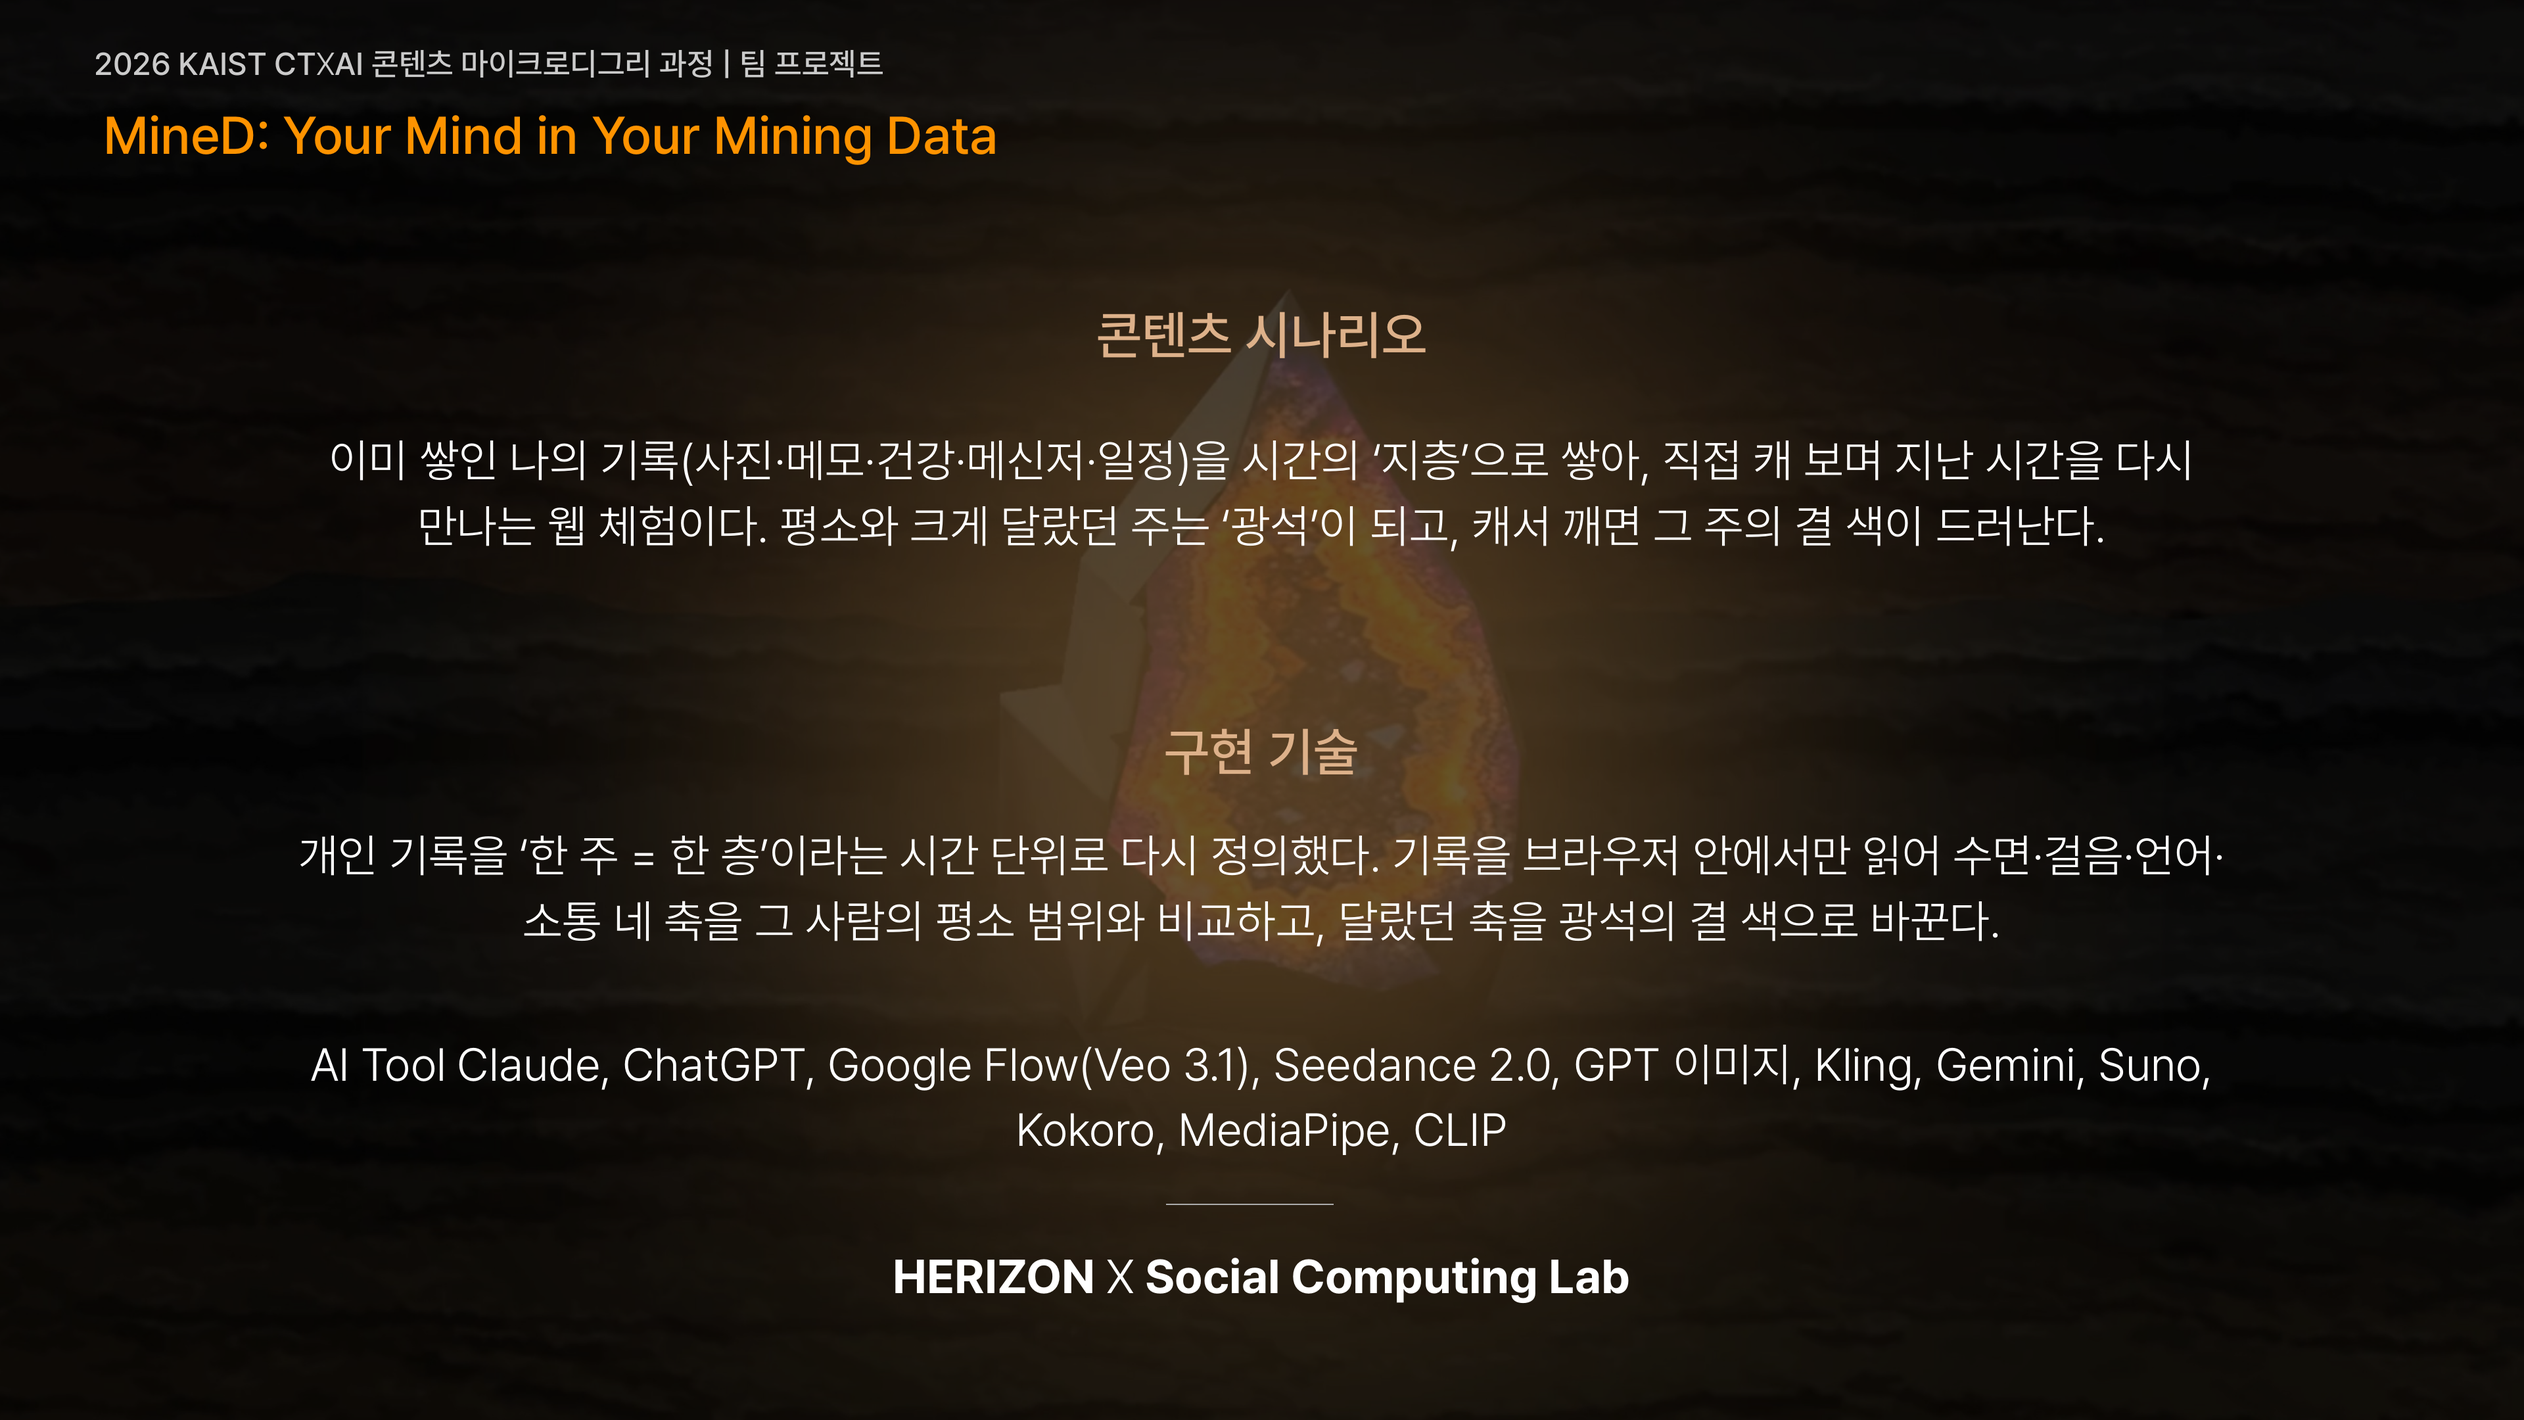
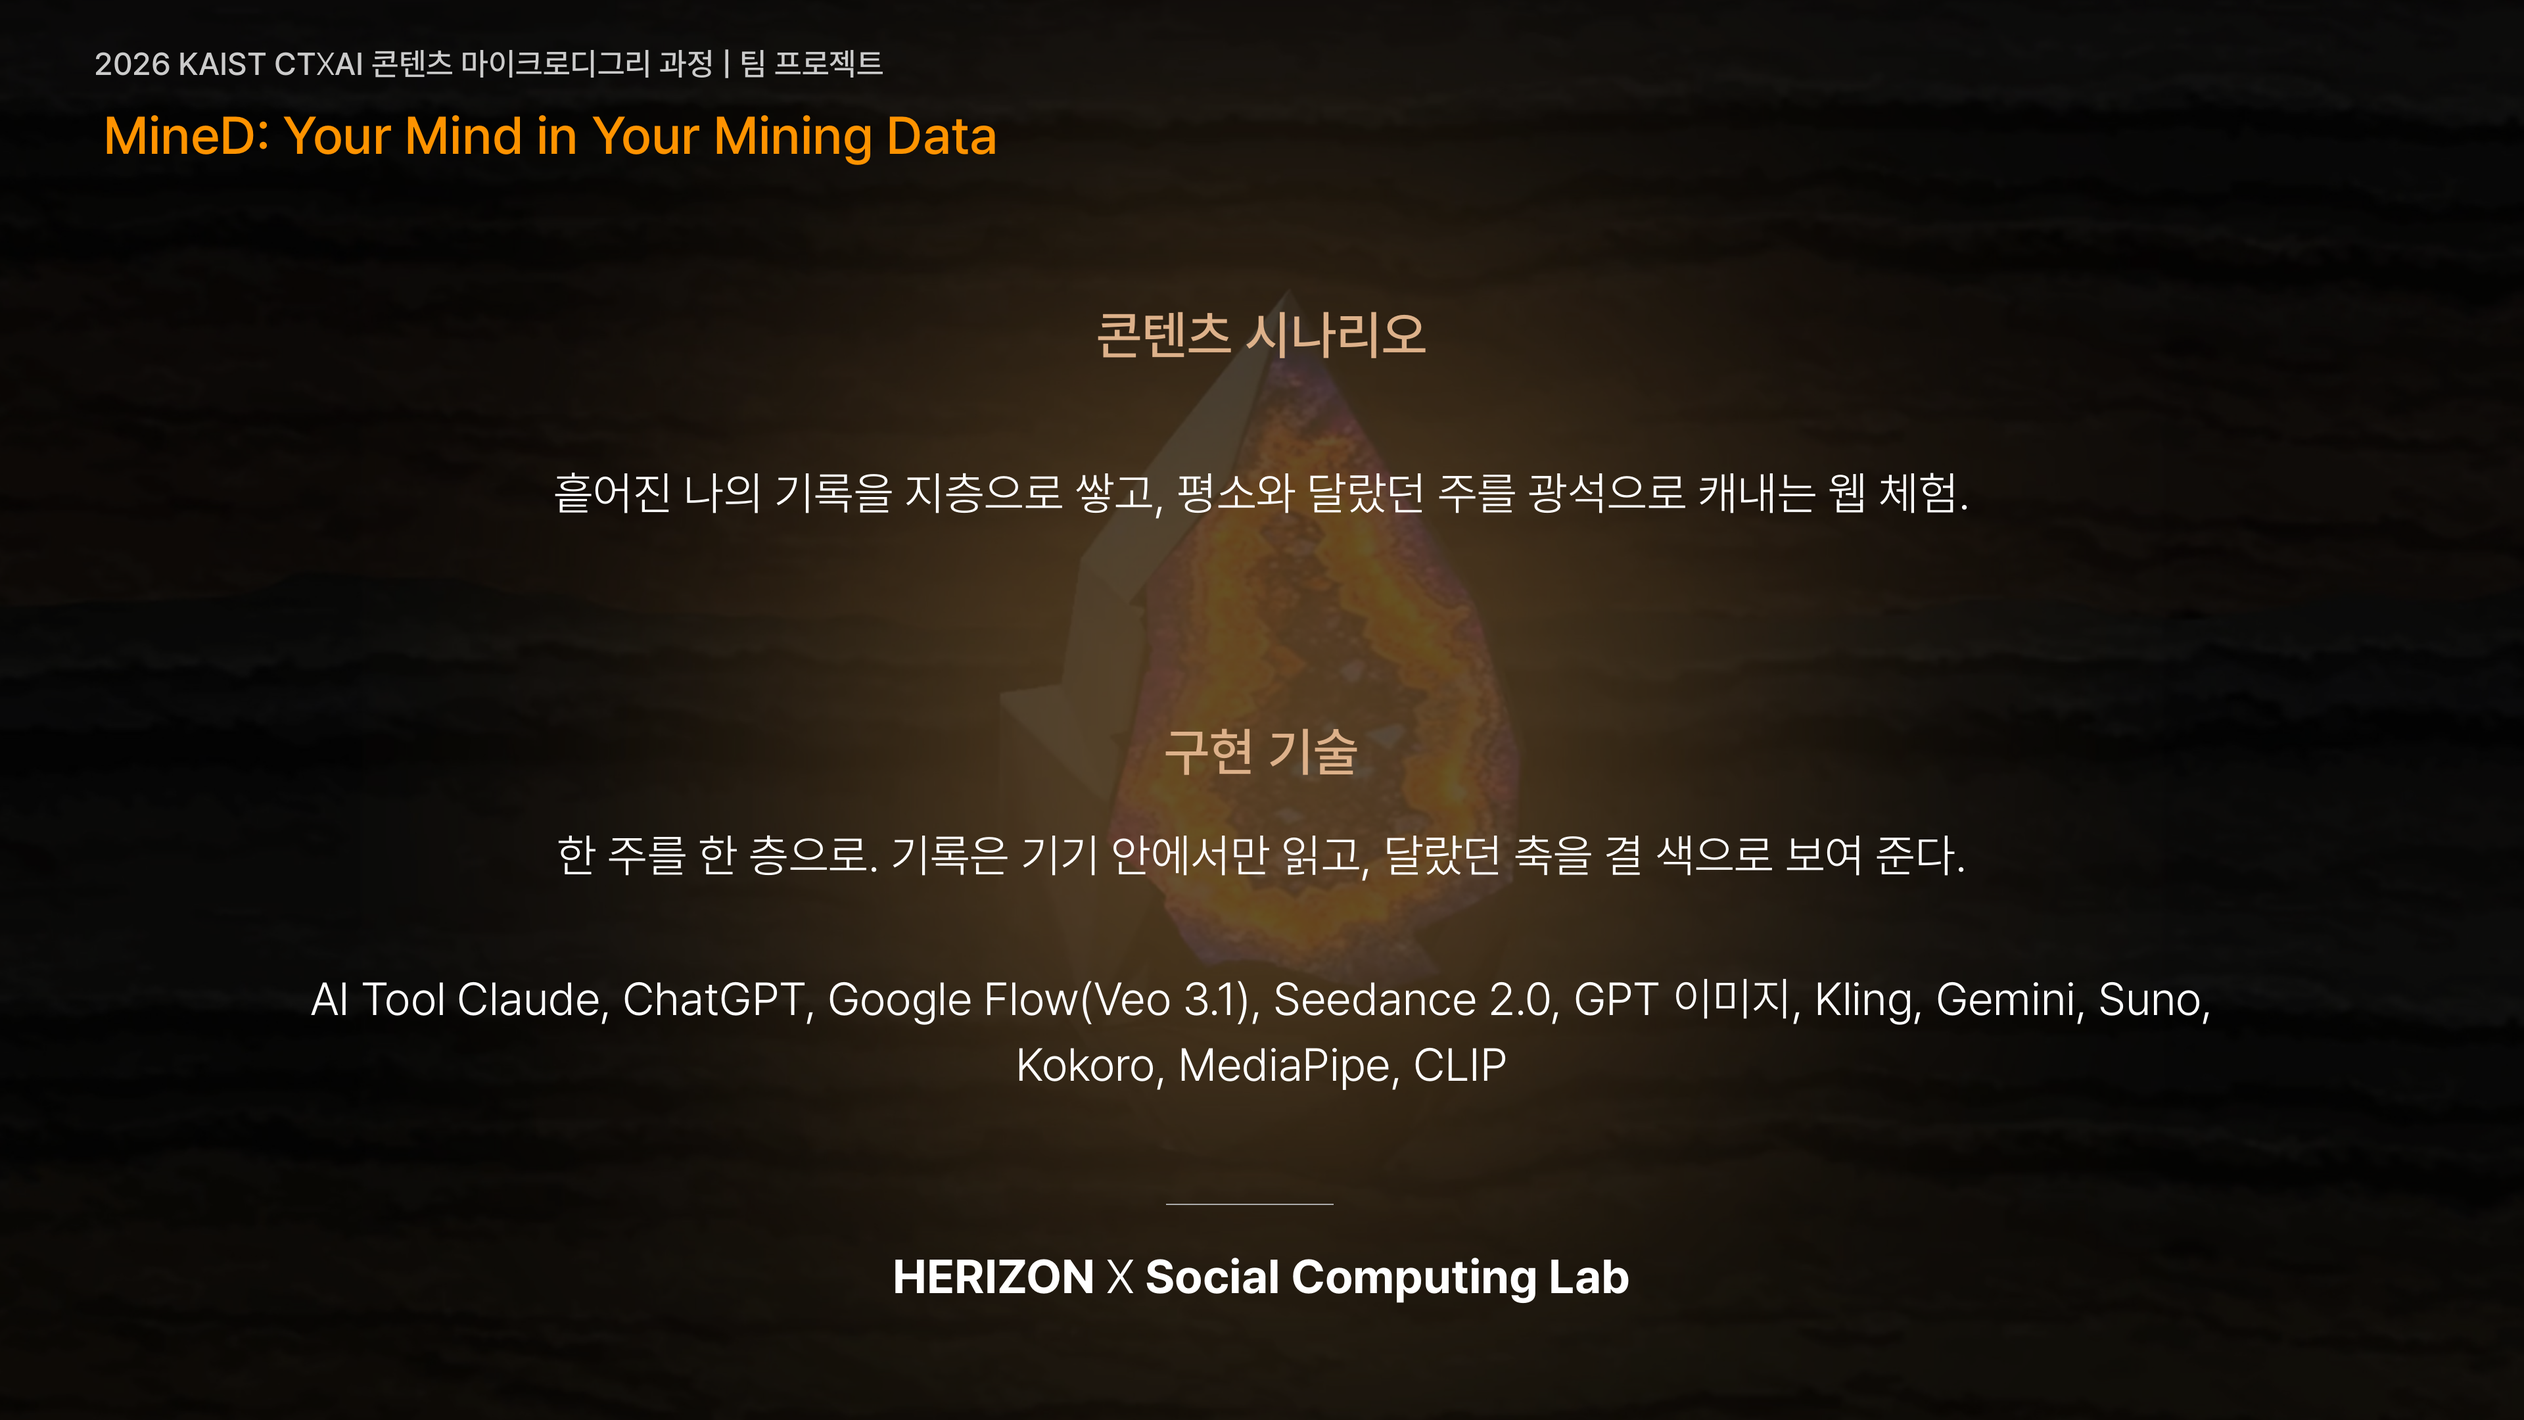
쇼케이스 v3: 9·10번 장 어두운 포맷, 연구실 칸 안내, 장별 노출 시간, 메인 하늘산 9.4초 컷, 메인 자막 5줄 최종안
Claude-Session: https://claude.ai/code/session_01H6XxrjKT2zziYGGeC5Esr8

Changed region(s): [[0.125, 0.5894, 0.875, 0.8065], [0.125, 0.3102, 0.875, 0.4032]]

diff --git a/showcase/v0.5_kit/layout/fill.py b/showcase/v0.5_kit/layout/fill.py
@@ -63,49 +63,41 @@ def pic(slide, path, x, y, w, h):
     pc.crop_left = pc.crop_right = cl[0]; pc.crop_top = pc.crop_bottom = cl[1]
     return pc
 
-SCEN_S = '이미 쌓인 나의 기록(사진·메모·건강·메신저·일정)을 시간의 ‘지층’으로 쌓아, 직접 캐 보며 지난 시간을 다시 만나는 웹 체험이다. 평소와 크게 달랐던 주는 ‘광석’이 되고, 캐서 깨면 그 주의 결 색이 드러난다.'
-SCEN_L = ('이미 쌓인 나의 기록(사진·메모·건강·메신저·일정)을 시간의 ‘지층’으로 쌓아, 직접 캐 보며 지난 시간을 다시 만나는 웹 체험이다. '
-          '최근 12주는 한 주가 한 층, 그 아래는 해마다 한 층으로 쌓인다. 평소와 크게 달랐던 주는 검은 ‘광석’으로 박히고, 캐서 깨면 그 주의 결 색이 드러난다. '
-          '관측소에서 만나는 캐릭터 ‘민디’와 대화하며 고른 말로 나만의 섬을 짓는다. 앱은 해석하거나 진단하지 않고 기록의 사실만 보여 주며, 원문은 기기 밖으로 나가지 않는다. '
-          '세계를 여는 영상과 민디의 목소리는 생성형 AI로 만들었다.')
-TECH_S = '개인 기록을 ‘한 주 = 한 층’이라는 시간 단위로 다시 정의했다. 기록을 브라우저 안에서만 읽어 수면·걸음·언어·소통 네 축을 그 사람의 평소 범위와 비교하고, 달랐던 축을 광석의 결 색으로 바꾼다.'
-TECH_L = ('MineD는 개인 기록을 ‘한 주 = 한 층’이라는 시간 단위로 다시 정의한 기록 시각화 웹 앱이다. 기록을 브라우저 안에서만 읽어 '
-          '수면·걸음·언어·소통 네 축을 그 사람의 평소 범위와 비교하고, 평소를 벗어난 주는 광석으로, 벗어난 축은 결 색으로 바꾼다. 원문은 기기 밖으로 나가지 않는다. '
-          'KAIST 문화기술대학원 Social Computing Lab은 자기 기록 안에서 근거를 찾아 답하는 개인 기록 챗봇을 개발해 민디와의 대화에 연계하도록 설계했다.')
+SCEN_S = '흩어진 나의 기록을 지층으로 쌓고, 평소와 달랐던 주를 광석으로 캐내는 웹 체험.'
+SCEN_L = '앞으로만 달려온 나에게 잠시 쉬어 갈 곳. 흩어진 기록이 한 주에 한 층씩 쌓이고, 평소와 달랐던 주는 광석이 된다. 민디와 나눈 말로 나만의 섬을 짓는다.'
+TECH_S = '한 주를 한 층으로. 기록은 기기 안에서만 읽고, 달랐던 축을 결 색으로 보여 준다.'
+TECH_L = '기록을 ‘한 주 = 한 층’으로 다시 정의했다. 수면·걸음·언어·소통 네 축을 나의 평소와 비교해, 달랐던 주는 광석으로, 달랐던 축은 결 색으로 바꾼다. 원문은 기기 밖으로 나가지 않는다.'
 AITOOL = 'Claude, ChatGPT, Google Flow(Veo 3.1), Seedance 2.0, GPT 이미지, Kling, Gemini, Suno, Kokoro, MediaPipe, CLIP'
 
 def tech_box(slide, body):
     sh = find(slide, '이 부분에는')
-    set_text(sh, [body, [(True, 'AI Tool '), (False, AITOOL)]])
+    set_text(sh, [body, [(True, 'AI Tool '), (False, AITOOL)]]); return sh
 
 # 메인 3 · 서브 7·8 · 심포지엄 17·18
 set_text(find(S(3), '이미 쌓인'), [SCEN_S]); tech_box(S(3), TECH_S)
 for n in (7, 17):
     set_text(find(S(n), '이미 쌓인'), [SCEN_L])
 for n in (8, 18):
-    tech_box(S(n), TECH_L)
-    sh = find(S(n), 'MineD는'); sh.top = sh.top - Inches(1.6)
-    h = find(S(n), '구현 기술'); h.top = h.top - Inches(1.4)
-    t = find(S(n), 'MineD: Your'); t.top = t.top - Inches(1.0)
+    sh = tech_box(S(n), TECH_L); sh.top = sh.top - Inches(0.6)
+    h = find(S(n), '구현 기술'); h.top = h.top - Inches(0.6)
+    t = find(S(n), 'MineD: Your'); t.top = t.top - Inches(0.4)
 
 # 9 콘텐츠 개발
 s9 = S(9); kill(s9, '여기엔 캐릭터 개발, 이미지 사운드 생성, 스토리 개발 등\n')
 DARK = '3A3530'
-set_text(find(s9, '캐릭터 개발 및 생성'), ['캐릭터 개발 및 생성'])
-set_text(find(s9, '3차원 장면'), ['세계·나의 섬 영상과 사운드'])
-set_text(find(s9, '시나리오 개발'), ['시나리오 개발'])
+set_text(find(s9, '캐릭터 개발 및 생성'), ['캐릭터'])
+set_text(find(s9, '3차원 장면'), ['세계와 소리'])
+set_text(find(s9, '시나리오 개발'), ['시나리오'])
 bodies = [sh for sh in s9.shapes if sh.has_text_frame and sh.text_frame.text.startswith('여기엔 캐릭터')]
 bodies.sort(key=lambda sh: (sh.left, sh.top))
 b1, b2, b3a, b3b = bodies  # x순: 3.3 / 19.5 / 36.0(19.3) / 43.5
 if b3a.left > b3b.left: b3a, b3b = b3b, b3a
-set_text(b1, ['기록을 지키는 관측소지기 ‘민디’. 이미지 생성으로 기준 시트를 만들어 모든 장면에서 같은 모습을 지켰다.',
-              '말투 4종 대사집과, TTS에 음높이 변환을 더한 외계어 목소리를 입혔다.'], DARK)
-set_text(b2, ['안개 관측소와 나의 섬 4곳(바다·하늘산·정글·음악방)을 Google Flow(Veo 3.1)와 Seedance 2.0으로 생성했다. 날씨·계절·시대를 바꾼 변주도 함께 만들었다.',
-              '효과음 21종과 바탕 소리는 앱 사운드 엔진으로 직접 만들었다.'], DARK)
+set_text(b1, ['관측소지기 민디. 기준 시트로 모든 장면의 모습을 맞췄다.'], DARK)
+set_text(b2, ['관측소와 섬 4곳은 AI 영상으로 짓고, 효과음 21종은 직접 만들었다.'], DARK)
 # b3a: 36.0,19.3 넓은 글 / b3b: 43.5,9.6 좁은 글
 nar, wide = (b3b, b3a) if b3b.width < b3a.width else (b3a, b3b)
-set_text(nar, ['“묻힌 것은 사라진 것이 아니다.”', '기록을 지층으로, 다시 만나는 순간을 광석으로 옮겼다.'], DARK)
-set_text(wide, ['관측소 → 지층 → 광석 → 민디와 이야기 → 나의 섬으로 이어지는 체험 흐름을 설계했다. 첫 방문 튜토리얼, 결 색 범례, 광석 이름 짓기까지 한 줄의 이야기로 묶었다.'], DARK)
+set_text(nar, ['“묻힌 것은 사라진 것이 아니다.”'], DARK)
+set_text(wide, ['관측소에서 섬까지 이어지는 하나의 이야기.'], DARK)
 I = lambda f: f'{IMG}/{f}'
 pic(s9, I('mindi_sq.png'), 3.4, 9.9, 7.3, 7.3)
 pic(s9, I('mindi_character_box.png'), 11.1, 9.9, 6.5, 3.0)
@@ -122,14 +114,47 @@ set_text(find(s10, '시스템 구조'), ['시스템 구조'])
 set_text(find(s10, 'OOOO'), [' '])  # 11/09 운영: 연구실 칸은 연구실이 작성 중, 비워 둠
 tmpl = b1  # 9번 본문 상자 서식 복제
 for k, (img, lines) in enumerate([
-    ('ore.png', ['최근 12주는 한 주 한 층, 그 아래는 해마다 한 층. 네 축이 평소 범위를 벗어난 주를 광석으로 판정하고, 벗어난 축의 수만큼 결 색 고리를 겹친다.', '광석 판정과 지층 그리기는 모두 브라우저 안에서 이루어진다.']),
-    ('diag.png', ['기록 가져오기부터 나의 섬까지 모든 처리를 기기 안에서 한다. 원문은 서버나 외부 모델로 보내지 않는다.', '생성형 AI는 세계 영상·이미지·목소리 제작에만 썼다.']),
-]):
+    ('ore.png', ['한 주는 한 층. 평소를 벗어난 주는 광석이 되고, 벗어난 축은 결 색 고리로 남는다.']),
+    ('diag.png', ['모든 처리는 기기 안에서. 생성형 AI는 영상·이미지·목소리 제작에만 썼다.'])]):
     x = 2.5 + k * 16.35
     pic(s10, I(img), x + 0.6, 9.9, 14.5, 8.0)
     el = copy.deepcopy(tmpl._element); s10.shapes._spTree.append(el)
     sh = s10.shapes[-1]; sh.left, sh.top, sh.width, sh.height = Inches(x + 0.6), Inches(18.3), Inches(14.5), Inches(6.0)
     set_text(sh, lines, DARK)
+
+# 9·10 테마 (11/09 보별: 흰 양식이 의무가 아니면 우리 어두운 포맷이 낫다). THEME=white 로 흰 양식 유지
+import os
+from pptx.enum.shapes import MSO_SHAPE_TYPE
+THEME = os.environ.get('THEME', 'dark')
+def runs_of(sh):
+    for pp in sh.text_frame.paragraphs:
+        for r in pp.runs: yield r
+def placeholder03(slide, color):
+    el = copy.deepcopy(tmpl._element); slide.shapes._spTree.append(el)
+    sh = slide.shapes[-1]; sh.left, sh.top, sh.width, sh.height = Inches(36.0), Inches(15.2), Inches(14.3), Inches(2.0)
+    set_text(sh, ['연구실 작성 예정'], color)
+    from pptx.enum.text import PP_ALIGN
+    for pp in sh.text_frame.paragraphs: pp.alignment = PP_ALIGN.CENTER
+placeholder03(s10, '6B645C' if THEME == 'dark' else 'B0B0B0')
+if THEME == 'dark':
+    BG, BODY, HEAD, ACC, SUB, LINE = '15120F', 'D9D2C8', 'F2ECE4', 'F0A24A', '8C857C', '4A443D'
+    for slide in (s9, s10):
+        slide.background.fill.solid(); slide.background.fill.fore_color.rgb = RGBColor.from_string(BG)
+        for sh in slide.shapes:
+            if sh.shape_type == MSO_SHAPE_TYPE.AUTO_SHAPE:
+                if sh.fill.type == 1: sh.fill.fore_color.rgb = RGBColor.from_string('2A2622')
+                try:
+                    if sh.line.fill.type == 1: sh.line.color.rgb = RGBColor.from_string(LINE)
+                except Exception: pass
+            if not sh.has_text_frame or not sh.text_frame.text.strip(): continue
+            t = sh.text_frame.text.strip()
+            if t.startswith('2026 KAIST'): c = SUB
+            elif t.startswith('MineD: Your'): c = 'E8962E'
+            elif t in ('콘텐츠 개발', '기술 개발') or t in ('01', '02', '03') or t.startswith('HERIZON'): c = HEAD
+            elif t in ('캐릭터', '세계와 소리', '시나리오', '지층·광석 판정', '시스템 구조'): c = ACC
+            elif t in ('Social Computing Lab', '연구실 작성 예정'): c = '6B645C'
+            else: c = BODY
+            for r in runs_of(sh): r.font.color.rgb = RGBColor.from_string(c)
 
 # 크레딧 12·20 (HERIZON × SCL): 11/09 보별 결정 = 팀원 개인 이름은 넣지 않음, 협업 = 이원재 교수 연구실 이서연
 for n in (12, 20):

diff --git a/showcase/v0.5_kit/build5.py b/showcase/v0.5_kit/build5.py
@@ -358,7 +358,7 @@ def main():
                     help='full=출품 영상(제목·기술·본편·크레딧) / sub=서브·심포지엄(레이아웃 장+본편 2분+크레딧 장) / main=메인(레이아웃 장+1분 축약)')
     ap.add_argument('--pre', default='', help='본편 앞에 붙일 레이아웃 장 PNG들(쉼표로)')
     ap.add_argument('--post', default='', help='본편 뒤에 붙일 레이아웃 장 PNG들(쉼표로)')
-    ap.add_argument('--page-sec', type=float, default=6.0, help='레이아웃 장 한 장의 길이(초)')
+    ap.add_argument('--page-sec', default='6', help='레이아웃 장 길이(초). 하나면 모든 장, 쉼표 목록이면 --pre 장들 다음 --post 장들 순서로(모자라면 마지막 값)')
     ap.add_argument('--copy', choices=['a', 'b'], default='a', help='메인 자막 묶음: a=m0·mw1~4, b=m0b·mw1b~4b(노션 스레드 5줄안)')
     o = ap.parse_args()
     mj = next((p for p in ['myspace.json', f'{K3}/myspace.json'] if os.path.exists(p)), None)
@@ -373,11 +373,14 @@ def main():
     pre = [x for x in o.pre.split(',') if x]
     post = [x for x in o.post.split(',') if x]
     segs = []
+    secs = [float(x) for x in str(o.page_sec).split(',') if x]
+    sec_it = iter(secs)
 
     def pages(lst, tag):
         for i, png in enumerate(lst):
             name = f'{tag}{i + 1}'
-            page(png, o.page_sec, f'seg/{name}.mp4')
+            d = next(sec_it, secs[-1])
+            page(png, d, f'seg/{name}.mp4')
             segs.append(name)
 
     if pre:
@@ -394,7 +397,7 @@ def main():
         dm_ = [x[:5] + ([(rc(c), *r) for c, *r in x[5]],) + x[6:] for x in DEMO_S]
         story('seg/03_story.mp4', st_); segs.append('03_story')
         demo('seg/05_demo.mp4', dm_); segs.append('05_demo')
-        two = [(f, [(4.4, 9.9)] if k == 'sky' else c, k) for f, c, k in spaces if k in ('sea', 'sky')]  # 하늘산 원본 9.5초 컷 뒤 짧은 숏 빼기
+        two = [(f, [(4.4, 9.4)] if k == 'sky' else c, k) for f, c, k in spaces if k in ('sea', 'sky')]  # 하늘산 원본 9.52초 컷 뒤 짧은 숏 빼기
         islands(two, 'seg/06_islands.mp4', cap=6.0); segs.append('06_islands')
         ending('seg/07_end.mp4', short=True); segs.append('07_end')
     else:
